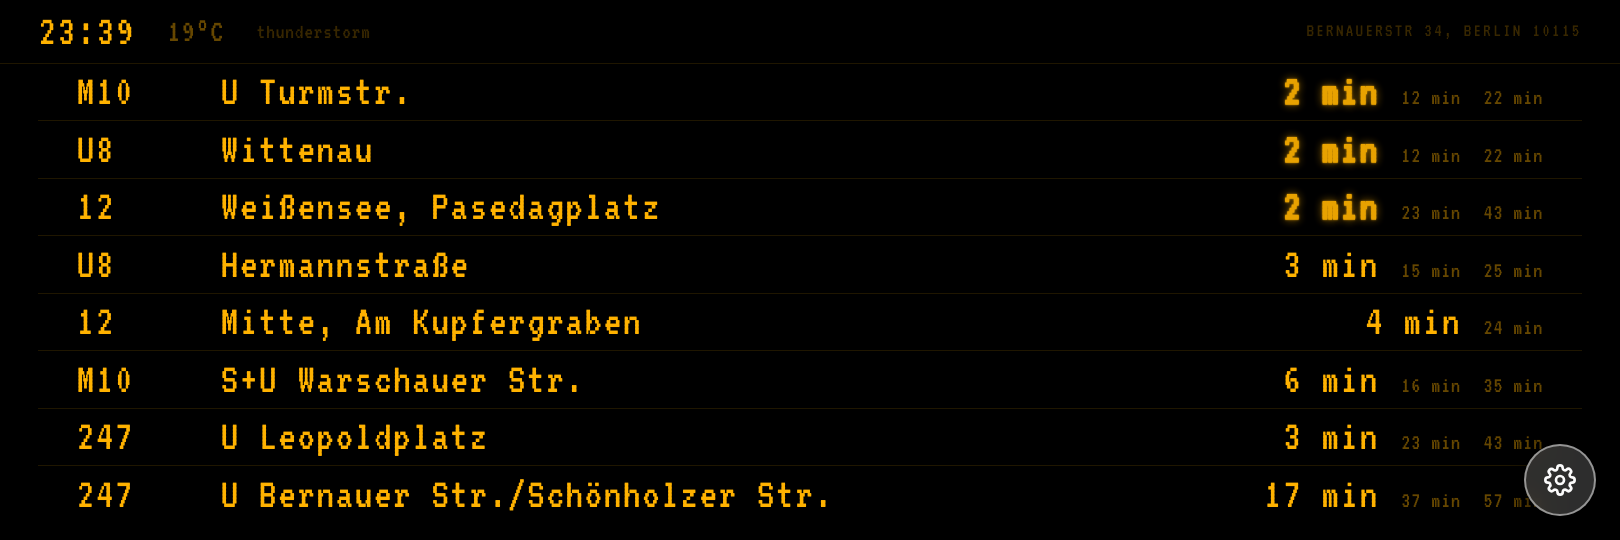
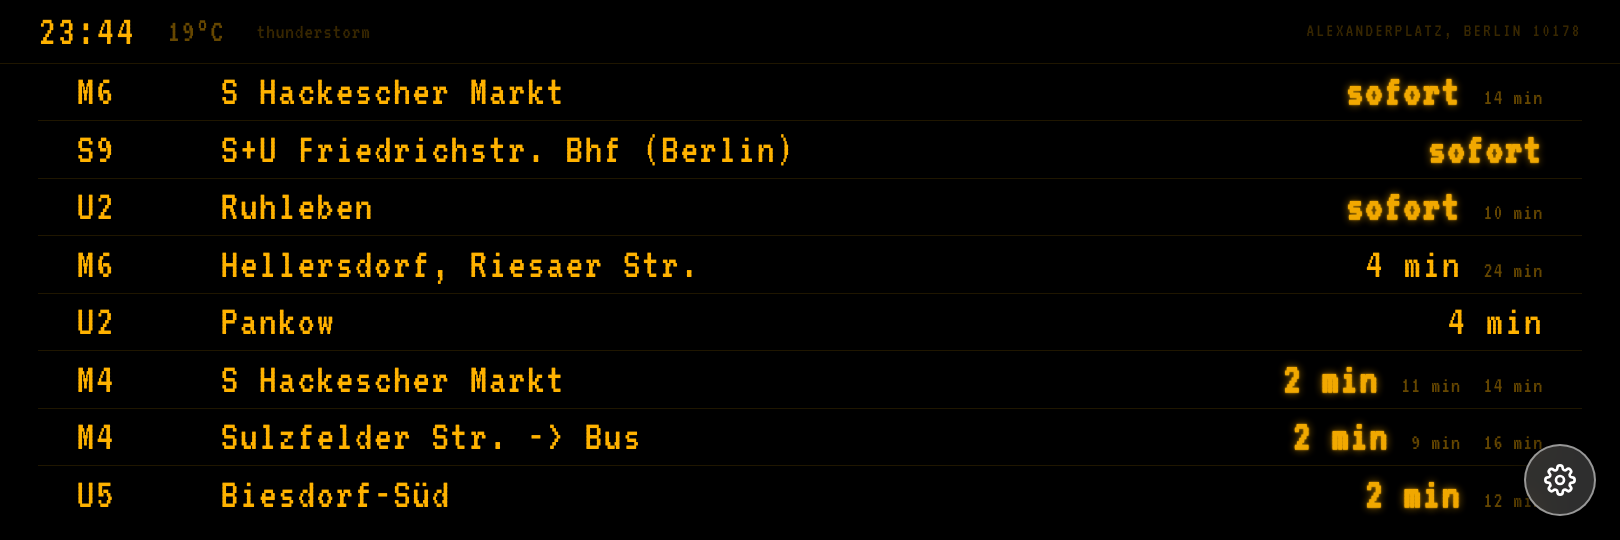
fix: replace real home address with public landmark everywhere
Default location was set to a real residential address (Alexanderplatz,
Berlin). Replaced with Alexanderplatz — a public, well-known Berlin
landmark, not tied to anyone's residence — in config.ts, README, and UI
placeholder text. Regenerated docs/demo.gif and docs/screenshots/ since
the old captures showed the real address printed in the board footer and
real nearby-stop names for that neighborhood.

Note: the old address still exists in earlier git history (this repo is
private, but flagging it — see conversation).

diff --git a/src/components/SettingsModal.tsx b/src/components/SettingsModal.tsx
@@ -33,7 +33,7 @@ const MODES: ModeConfig[] = [
 ];
 
 function shortAddress(displayName: string): string {
-  // Turn "34, Alexanderplatz, Mitte, Berlin, 10115, Germany" into "Alexanderplatz, Berlin"
+  // Turn "1, Alexanderplatz, Mitte, Berlin, 10178, Germany" into "Alexanderplatz 1, Berlin"
   const parts = displayName.split(', ');
   const road = parts.find(p => /[a-zäöüß]/i.test(p) && !/^\d+$/.test(p) && p !== 'Germany' && p !== 'Deutschland');
   const number = parts[0].match(/^\d+$/) ? parts[0] : '';

diff --git a/src/config.ts b/src/config.ts
@@ -4,7 +4,7 @@
 export const config = {
   // Your address for display
   MY_ADDRESS: 'Alexanderplatz, Berlin 10178',
-  
+
   // Your location coordinates
   MY_LAT: 52.5219,
   MY_LON: 13.4132,
